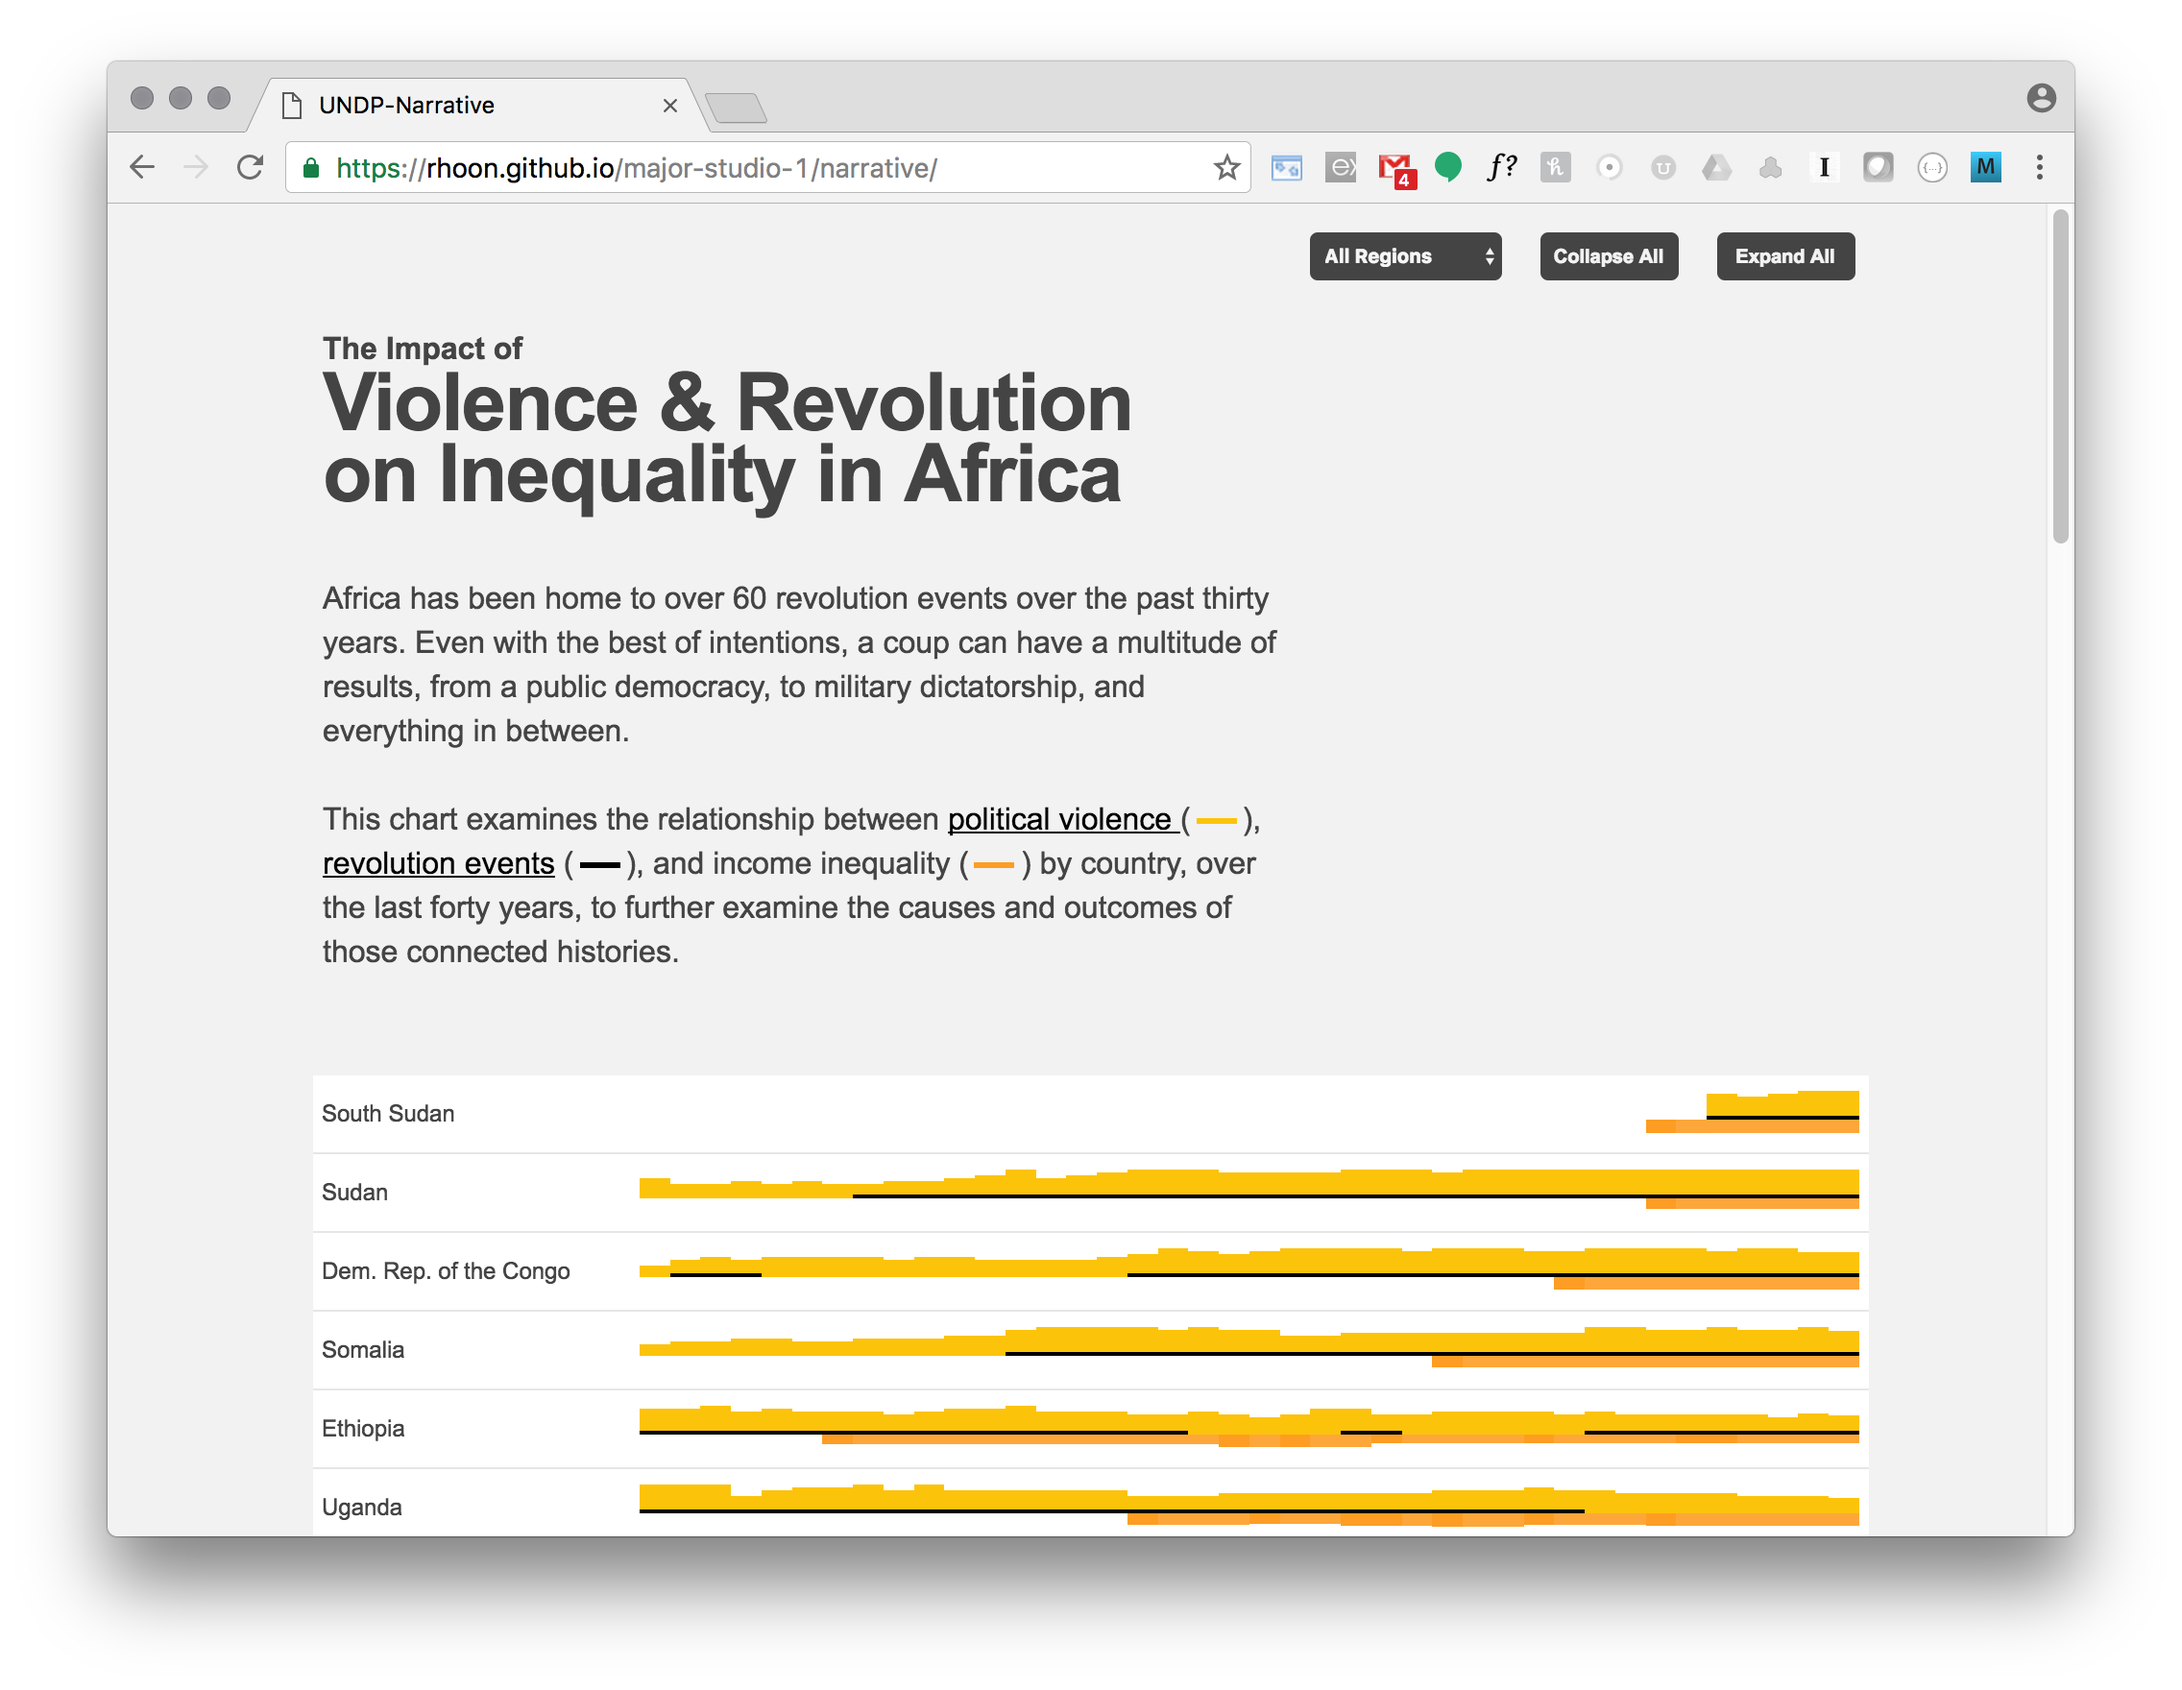
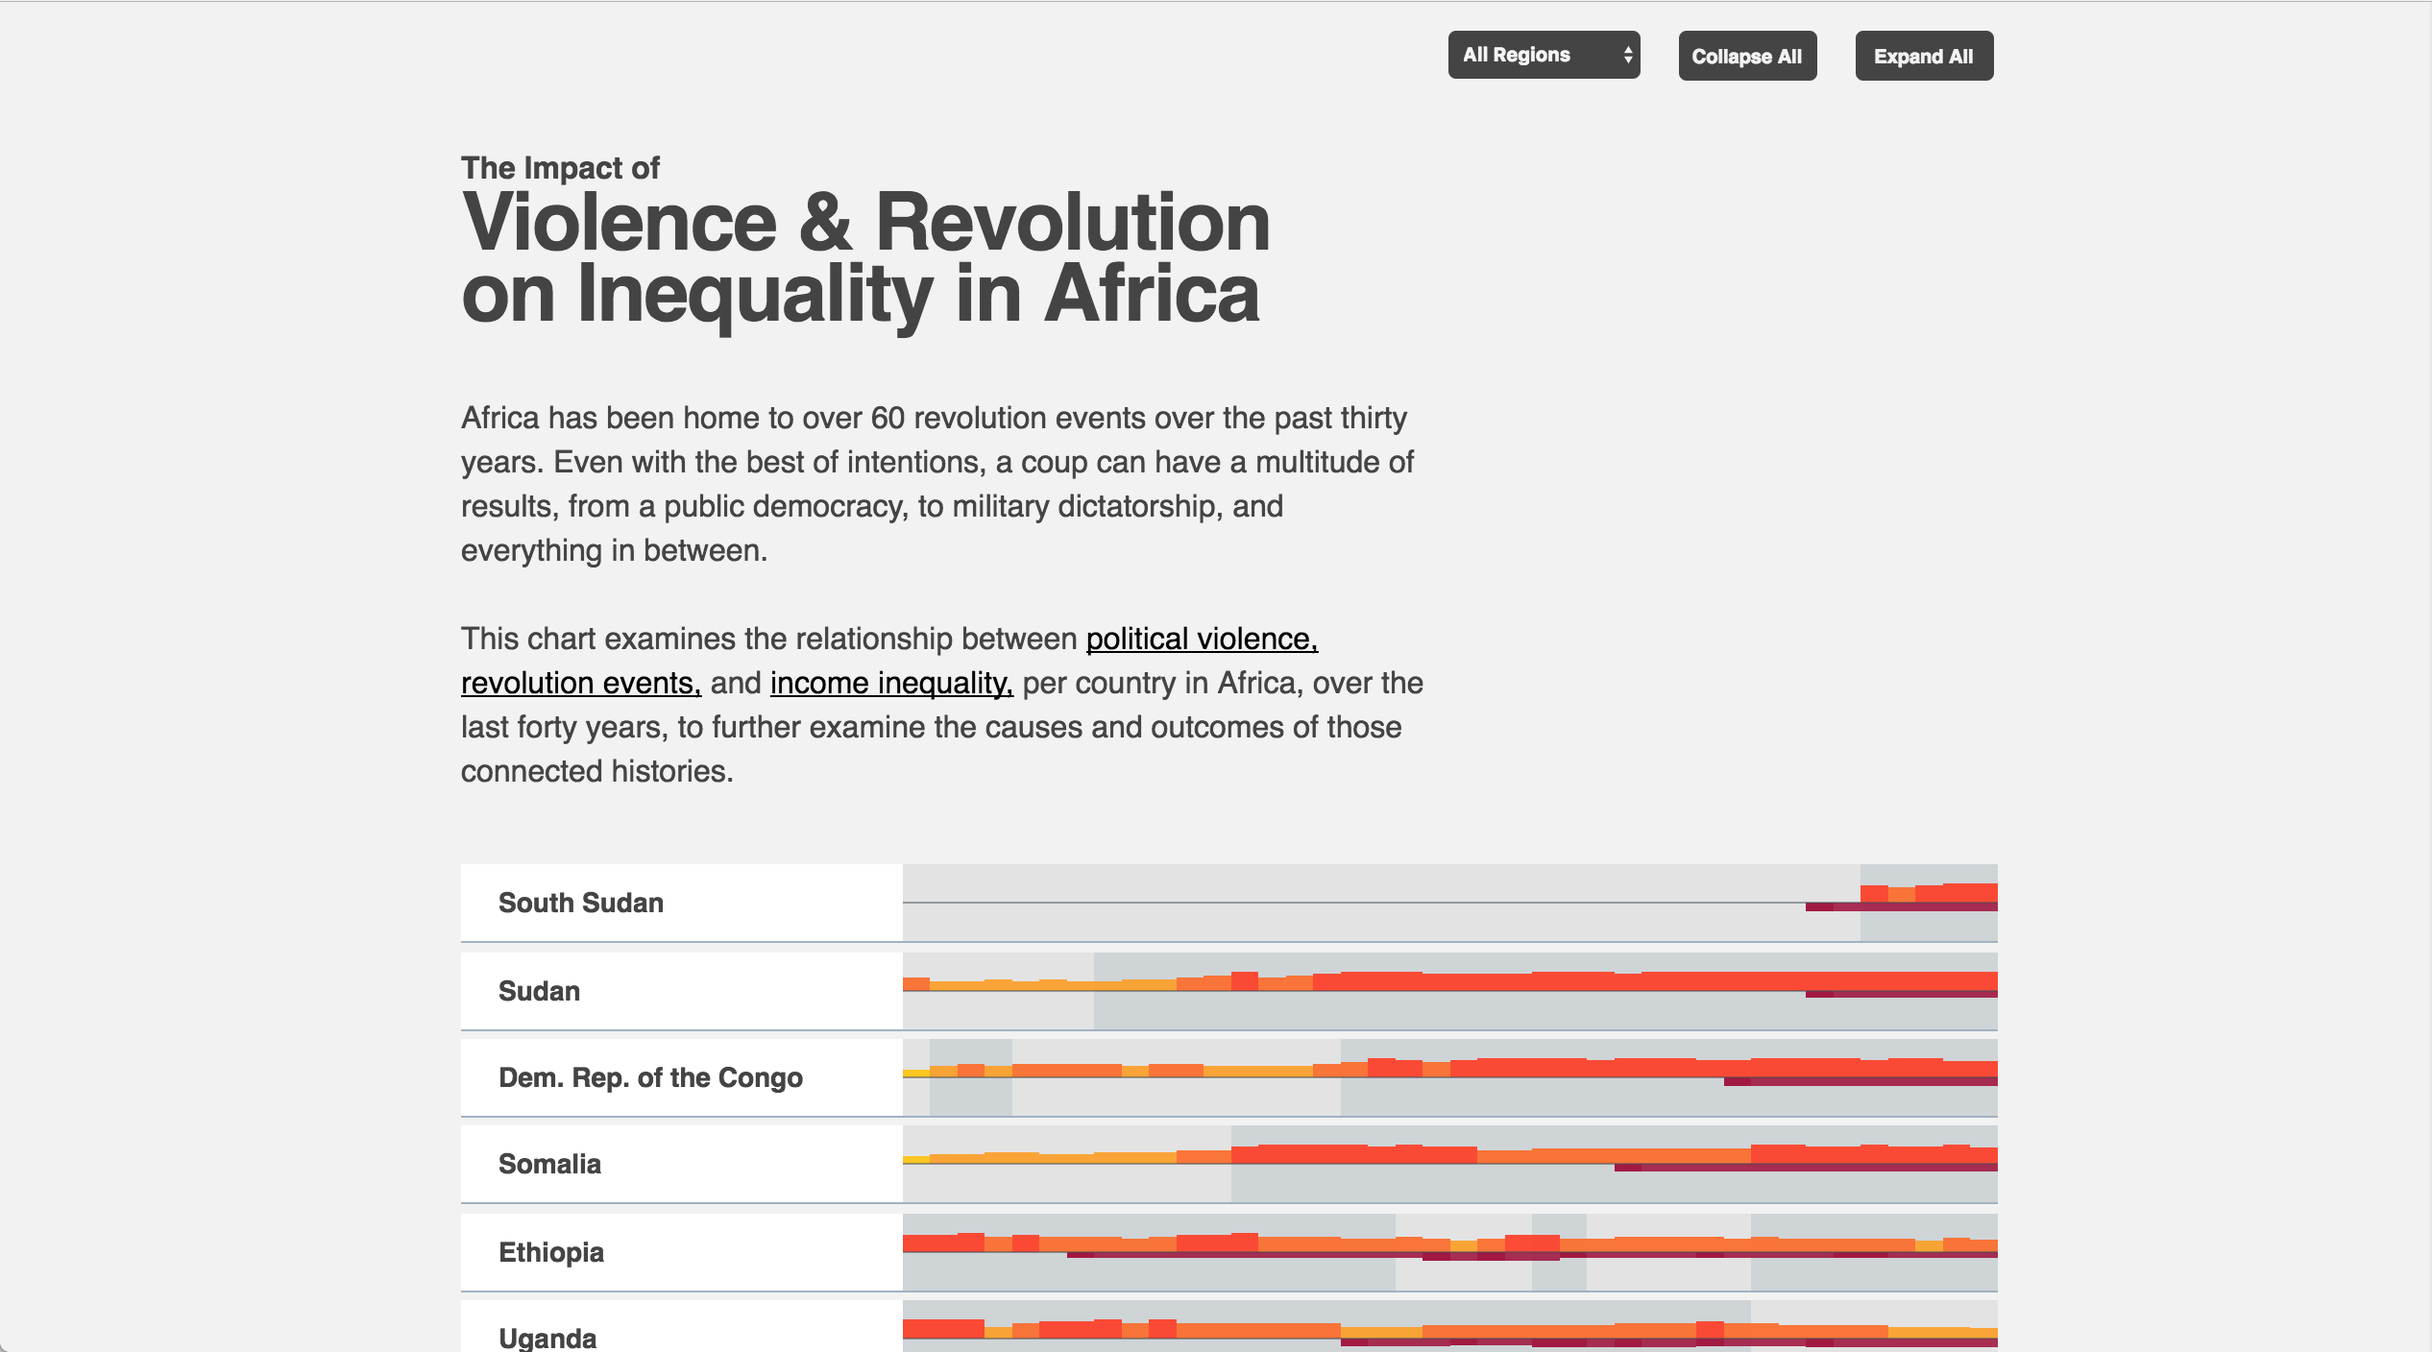
updates to README

diff --git a/narrative/index.html b/narrative/index.html
@@ -26,7 +26,7 @@
       <div class="btn" id="collapseAll">Collapse All</div>
 
       <div class="toggle">
-        <select id="hider"> <!-- onchange="hider()"-->
+        <select id="hider"> 
           <option selected>All Regions</option>
           <option>Southern</option>
           <option>North</option>
@@ -47,15 +47,16 @@
     Even with the best of intentions, a coup can have a multitude of results, 
     from a public democracy, to military dictatorship, and everything in between.
     <br /><br />
-    
+    This chart examines the relationship between <a href='http://politicalterrorscale.org/' target='new'>political violence,</a> 
+    <a href='http://www.systemicpeace.org/inscr/PITF%20Consolidated%20Case%20List%202015.pdf' target='new'>revolution events,</a> and 
+    <a href='https://www.wider.unu.edu/project/wiid-world-income-inequality-database' target='new'>income inequality,</a> per country in Africa, 
+    over the last forty years, to further examine the causes and outcomes of those connected histories.
+    <br /><br />
     </p>
-
-    <!--<img id="ptsKey" src="keyNoNum.svg" />-->
 
   </div>
 
   <script>
-    // matchMedia - not compatible with Opera (1.1% of users)
     
     var smScreen = false;
     var winWidth = window.innerWidth;
@@ -94,9 +95,6 @@
       
       dura = 0; // cut animation transitions
     } 
-    
-    console.log(smScreen);
-    console.log(winWidth);
   
     var ptsColors = ['#56c02c', '#fcc30c', '#fd9d24', '#fd6926', '#ff3a22', '#e0240d'];
   
@@ -186,8 +184,6 @@
       margin = {  top: 5,  right: 10,  bottom: 0,  left: 0 };
       
       var newHeight = (divClosedB/2) - margin.top - margin.bottom;
-      
-      console.log(newHeight);
       
       yScale.range([newHeight, 0])
       yScaleGini.range([0, newHeight]);
@@ -286,8 +282,7 @@
         
         //access data
         var years = d3.entries(d.value.years);
-        console.log(years);
-        
+
         //make chart taller
         thisDiv.transition()
           .duration(dura)
@@ -408,8 +403,6 @@
       body.select('#hider')
         .on('change', hider());
       
-      console.log(data);
-      
       //draw chart
       var svg = body.selectAll('div.chart')
         .data(data)
@@ -433,7 +426,6 @@
       var country = d.value.name;
       var countryCode = d.key;
       
-      // elem.append('h5').attr('class', 'chart').text(d.value.region+' Africa');
       elem.append('h1').attr('class', 'chart').text(country);
     
       var chart = elem.append('svg')
@@ -450,7 +442,7 @@
       chart.append('rect')
         .attrs({
           'width':width,
-          'height': fullHeight, //divClosed,
+          'height': fullHeight, 
           fill: '#e3e3e3',
           y: 0-margin.top,
           class: 'bg'
@@ -521,7 +513,7 @@
         .attrs({
           class: function(d) { return 'p'+d.key+' ptsHov hidden' },
           x: function(d) { return xScale(parseFloat(d.key))+(barWidth/2); },
-          y: margin.top-15, //function(d) { return yScale(d.value.ptsAvg); }
+          y: margin.top-15, 
           fill: function(d) {
             var i = Math.ceil(d.value.ptsAvg)-1;
             return ptsColors[i];
@@ -547,7 +539,7 @@
           width: barWidth,
           height: function(d) { return height - yScaleGini(d.value.giniAvg); }
         });
-        
+      
       chart.selectAll('text.giniHov')
         .data(years)
         .enter()
@@ -555,7 +547,7 @@
         .attrs({
           class: function(d) { return 'p'+d.key+' giniHov hidden' },
           x: function(d) { return xScale(parseFloat(d.key))+barWidth/2; },
-          y: divOpen-50
+          y: function(d) { if (smScreen) { return divOpen-100 } else { return divOpen-50 } } 
         })
         .text( function(d) { 
           //add key data if small screen
@@ -610,7 +602,6 @@
           x2: w,
           y1: h,
           y2: h,
-          // stroke: '#666666',
           class: 'zero',
           'stroke-width': 1
         })
@@ -668,7 +659,6 @@
     function showFullText(d, country) {
       return function(d) {
 
-        // console.log(d.began);
         var dates = d.began + ' - ' + endedString(d.ended);
 
         d3.select('body')
@@ -698,15 +688,13 @@
 
     function removeModal() {
       return function() {
-
         d3.selectAll('div.modal')
           .remove();
-
       }
     }
 
     function endedString(d) {
-      var numDate = Math.floor(parseFloat(d)); //.ended
+      var numDate = Math.floor(parseFloat(d)); 
 
       if (isNaN(numDate)) {
         return 'ONGOING';
@@ -737,7 +725,7 @@
     }
 
     function endedNum(d) {
-        var numDate = Math.floor(parseFloat(d)); //.ended
+        var numDate = Math.floor(parseFloat(d)); 
         if (isNaN(numDate)) {
           return 2016;
         }

diff --git a/narrative/style.css b/narrative/style.css
@@ -24,7 +24,6 @@
     }
     
     div#intro {
-      /*border-bottom: 1px solid black;*/
       width: 785px;
       margin: 0 auto 50px;
       padding: 0;
@@ -53,7 +52,7 @@
       font-weight: normal;
       position: relative;
       float: right;
-      margin-right: .625em; /*10px*/
+      margin-right: 1em; 
     }
     
     select {
@@ -61,18 +60,11 @@
       color: #f5f5f5;
       border: none;
       font-weight: bold;
-      padding: 5px; /* If you add too much padding here, the options won't show in IE */
-      /*border: 1px solid black;*/
+      padding: 5px; 
       font-size: 1em;
       width: 100px;
       height: 25px;
     }
-    
-    /*ol#footer {*/
-    /*  font-size: .625em;*/
-    /*  position: absolute;*/
-    /*  bottom: 10px;*/
-    /*}*/
     
     span#leadin {
       font-size: .38em;
@@ -82,7 +74,7 @@
     
     h1#title {
       text-align: left;
-      font-size: 2.625em; /*2.625em*/
+      font-size: 2.625em; 
       font-weight: bold;
       margin-bottom: 0;
       line-height: 90%;
@@ -177,7 +169,6 @@
     
     /* PTS DATA */
     rect.ptsAvg {
-      /*fill: #fcc30b;*/
       opacity: .9;
     }
     

diff --git a/README.md b/README.md
@@ -31,6 +31,10 @@ Center for Systemic Peace - broad datasets detailing coup events and other polit
 Currently associated with George Mason University.
 http://www.systemicpeace.org/inscrdata.html
 
+###Primary Source 3:
+WIID – World Income Inequality Database
+https://www.wider.unu.edu/project/wiid-world-income-inequality-database
+
 ###Supplemental Sources:
 
 "Poverty and Equity Database" The World Bank 
